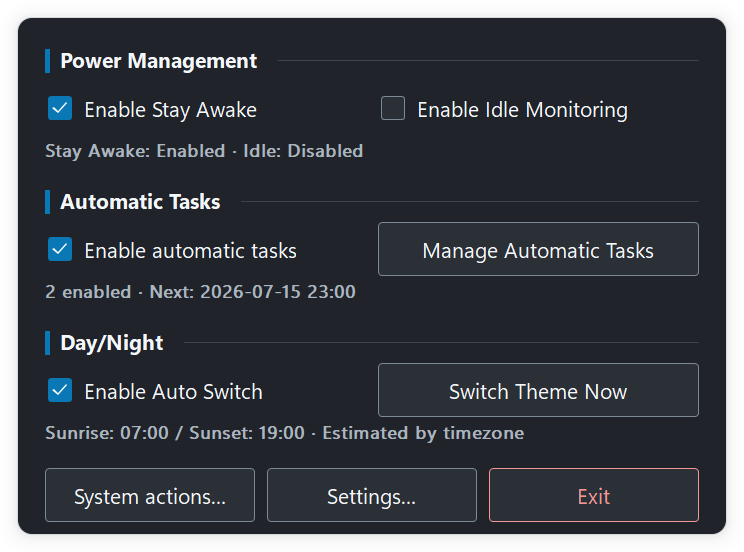
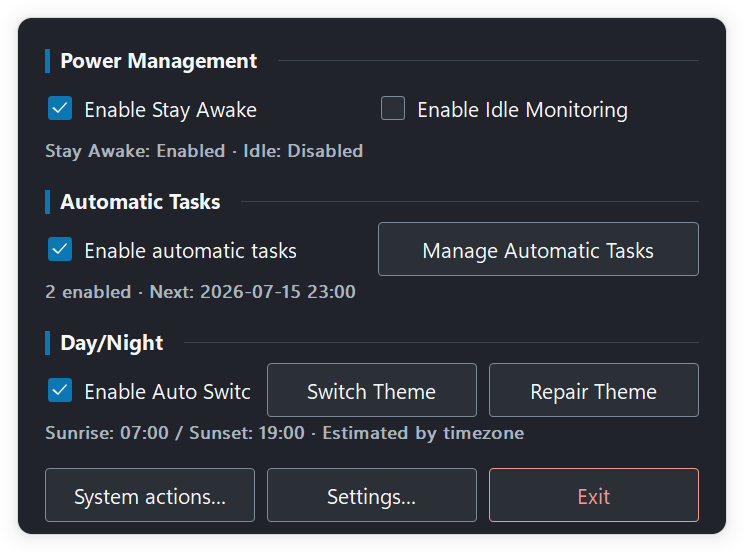
docs: update theme recovery guidance

Changed region(s): [[0.4019, 0.6775, 0.8965, 0.7391], [0.3401, 0.6775, 0.371, 0.7391]]

diff --git a/docs/user-guide.md b/docs/user-guide.md
@@ -19,7 +19,7 @@ The control panel keeps frequent actions and live status in one compact view:
 | --- | --- |
 | **Power Management** | Manual Stay Awake and Idle Monitoring switches, plus their effective runtime status |
 | **Automatic Tasks** | Master switch, enabled count, next run, and entry to the task manager |
-| **Day / Night** | Automatic switching, an immediate theme switch, and the next scheduled transition |
+| **Day / Night** | Automatic switching, switch or repair actions for the current theme, and the next scheduled transition |
 | **Bottom actions** | Built-in system actions, Settings, and Exit |
 
 Open **Settings** for persistent feature behavior:
@@ -27,7 +27,7 @@ Open **Settings** for persistent feature behavior:
 | Settings page | Available preferences |
 | --- | --- |
 | **Power** | Keep the display on, battery policy and threshold, idle timeout, reminder countdown, timeout action, and Enhanced Monitoring |
-| **Day / Night** | Fixed-time or sunrise/sunset schedule, time-zone or approximate IP location, battery/fullscreen behavior, and theme repair |
+| **Day / Night** | Fixed-time or sunrise/sunset schedule, time-zone or approximate IP location, and battery/fullscreen behavior |
 | **Application** | Display language, global hotkeys, auto-start, debug logging, and the project link |
 
 The Settings header always shows the current version. Every saved preference has a home in the control panel, Settings, or the automatic-task manager, so editing TOML is not required for normal use.
@@ -65,6 +65,8 @@ Tasks run only while IdleTrigger is running. Processes are checked about every f
 ## 🌗 Day / Night Themes
 
 Switch Windows light and dark themes at fixed times or at sunrise and sunset. You can use dark mode on battery or postpone a scheduled change during fullscreen apps and games.
+
+Automatic changes coalesce nearby power and display events, wait briefly for the display topology to settle, and use stronger recovery only for higher-risk multi-display or resume scenarios. No extra setting is required. If part of the Windows shell still shows stale colors, choose **Repair Theme** on the main panel.
 
 Sunrise and sunset use the Windows time zone by default, with optional approximate IP-based location. IP results are kept in memory only; if lookup is disabled or unavailable, IdleTrigger falls back to the Windows time zone, UTC offset, and finally a built-in default location. If Windows theme settings are unavailable or blocked, IdleTrigger disables this section but keeps its settings.
 

diff --git a/docs/roadmap.md b/docs/roadmap.md
@@ -31,7 +31,7 @@
 - [x] 轻量浮层替代传统托盘菜单，支持深浅色、DPI，并保持打开直至手动关闭或再次左键托盘图标
 - [x] 托盘图标和 EXE 版本信息统一生成
 - [x] 保持唤醒与空闲监测运行态互斥
-- [x] 昼夜主题支持当天切换时间展示和多显示器主题刷新兜底
+- [x] 昼夜主题支持当天切换时间展示，并以显示拓扑收敛、精确电源事件和分级修复处理多显示器切换
 - [x] 控制面板功能入口 tooltip；版本号与项目主页固定归入独立设置窗口
 - [x] 空闲监测以真实键鼠输入重置计时，启动和执行动作后均开启新的计时周期
 - [x] 预警浮层支持键鼠取消、关闭取消、当前鼠标屏幕定位和 DPI 适配
@@ -52,7 +52,7 @@
 - [x] 下拉浮层、任务列表、进程列表和当前选择预览统一主题滚动条，深色表头不再暴露原生浅色末端
 - [x] 自动任务相关子窗口统一深浅色标题栏图标，并补齐中英文 tooltip 和视觉截图入口
 - [x] 独立设置窗口覆盖全部详细偏好，并统一电源、昼夜和应用页面的间距、按钮、输入校验与 tooltip
-- [x] 主控制浮层统一显示电源运行状态、自动任务摘要和昼夜主题下次计划
+- [x] 主控制浮层统一显示电源运行状态、自动任务摘要、昼夜主题下次计划，以及主题切换与修复入口
 
 ## 🎨 UI/UX 后续计划：Quiet Native Utility
 

diff --git a/docs/development.zh-CN.md b/docs/development.zh-CN.md
@@ -104,6 +104,10 @@ go build -trimpath "-ldflags=$ldflags" -o dist/IdleTrigger-x86.exe ./cmd/idletri
   通知状态和 DWM 可见边界，再按需采样 GPU；GPU 只能统计前台进程的渲染引擎，须连续
   多次命中，且仅在主题确实待切换时运行，并支持取消和失败放行。不得申请管理员权限、
   打开前台进程或增加全局 GPU 常驻监测。
+- **主题切换恢复：** 定时、电池、恢复和显示器变化统一经过 `internal/app` 协调器。
+  自动请求须合并过期目标，并以排序后的活动显示路径、桌面坐标、分辨率和旋转方向判断
+  拓扑稳定；不得把刷新率作为稳定条件。完整 DWM 修复必须限流，修复过程中不得中断原主题
+  恢复；Windows 电源通知保留低频轮询兜底。
 - **仅开发能力：** 保持在 `devtools` 构建标签后，更新依赖边界预期，并确认正式
   构建不包含该能力。
 - **自动任务：** 同步更新 `internal/automation`、调度行为与测试、TOML 输出、

diff --git a/docs/development.md b/docs/development.md
@@ -110,6 +110,12 @@ Use the relevant row before considering a change complete:
   process's rendering engines, require consecutive samples, run only while a
   switch is pending, remain cancelable, and fail open. Do not request elevation,
   open the foreground process, or add a global GPU monitor.
+- **Theme transition recovery:** route schedule, battery, resume, and display
+  changes through the `internal/app` coordinator. Coalesce stale targets and
+  judge topology stability from sorted active paths, desktop geometry, and
+  rotation, never refresh rate. Rate-limit full DWM repair, never interrupt its
+  original-theme restoration, and retain low-frequency polling behind Windows
+  power notifications.
 - **Developer-only capability:** keep it behind `devtools`, update dependency
   boundary expectations, and verify the normal build excludes it.
 - **Automatic task:** update `internal/automation`, scheduler behavior and tests,
